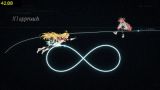
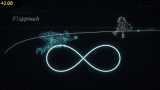
v2 round 3 rendered: world_execute_me_Ralmia_v2_round3.mp4; v/c no longer overshoots c before k363

Changed region(s): [[0.2188, 0.3333, 0.5, 0.6], [0.6875, 0.1778, 0.8438, 0.4222]]

diff --git a/ClaudeVer/project/scenes7.py b/ClaudeVer/project/scenes7.py
@@ -235,7 +235,7 @@ def beta3(kk):
         v = 0.3
         for kb, val in ((360, 0.6), (361, 0.9), (362, 0.99), (362.5, 0.9995)):
             if kk >= kb: v = lerp(v, val, eo_back(clamp((kk - kb) / 0.3), 1.4))
-        return v
+        return min(v, 0.99999)                                   # the overshoot must not cross c before k363
     return 1.0 + 3.0 * ei_cubic(clamp((kk - 363) / 3))         # 1 -> 4 by k366 ("superluminal")
 
 def s_ch3b(c, g, t):

diff --git a/HANDOFF.md b/HANDOFF.md
@@ -55,7 +55,7 @@
 - 39–44 秒：不再贴 GPT 的彩色立绘，改成像 AC/DC 那样由扫描线画出的荧光线稿（`scenes3.phosphor` / `lish_trace`，遮罩 `n_trace_sit/sit_b/dash` 由 `prep7.py` 生成）：里榭娜骨白、洛菈米亚青色，出场时从上往下被"扫"出来。
 - 猫卡：去掉点头和摇晃，只在 "purr"（k182.5）换一次表情，和茄子、番茄一样静。
 - 166.5–170.2 秒（副歌 3b）：不再复用 52 秒的时空图和年代尺。改成第一人称的相对论星空（`scenes7.s_ch3b`，光行差公式）：接近光速时满天星挤向正前方，k363 v = c 缩成一点、γ = ∞；超光速后天空内外翻转、倒着流，她的时钟倒退 2026 → 617 A.D. → 3691 B.C.，k366 EXECUTION。
-- 成片：`ClaudeVer/world_execute_me_Ralmia_v2_round3.mp4`。
+- 成片：`ClaudeVer/world_execute_me_Ralmia_v2_round3.mp4`。自查：323 个硬切，偏差中位数 16.4 毫秒，59% 在 35 毫秒内，没有冻结。
 
 **第一轮自评里留下的弱点**：舞台一镜仍是缓慢推镜，里榭娜只占画面三分之一；她走进光里时被光洗白（和 v1 研究员同样的处理）；trance 的兰紫圆环偏淡；荧光棒是画上去的，只能整片发光，不能摆动。
 
